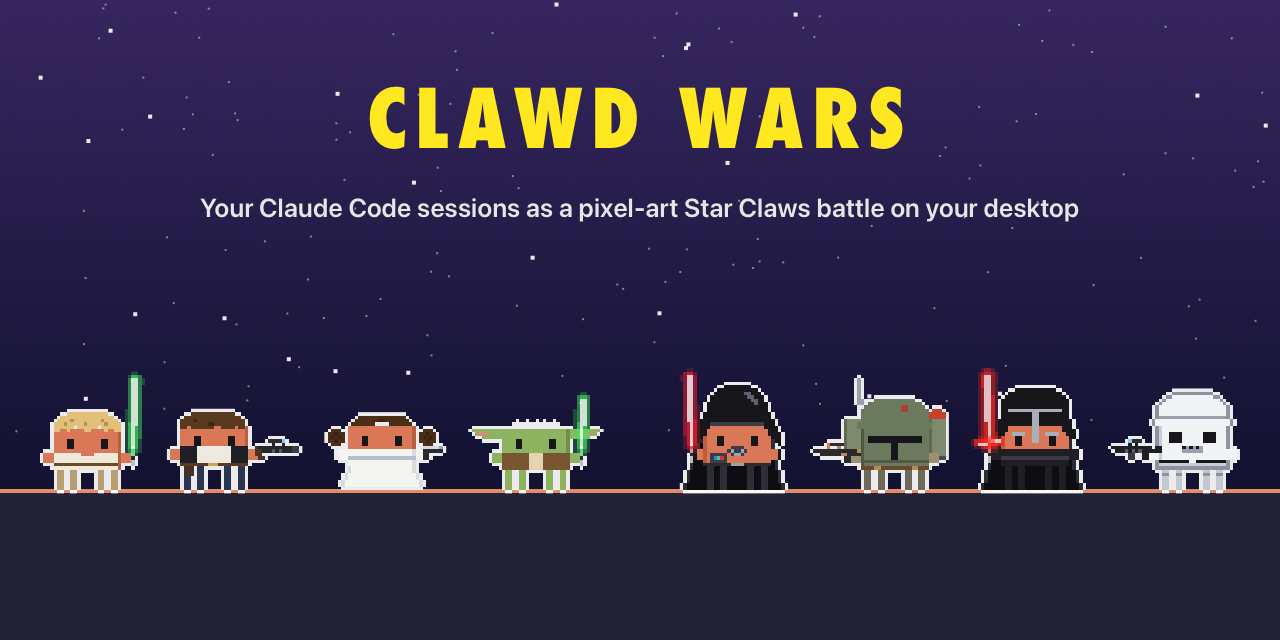
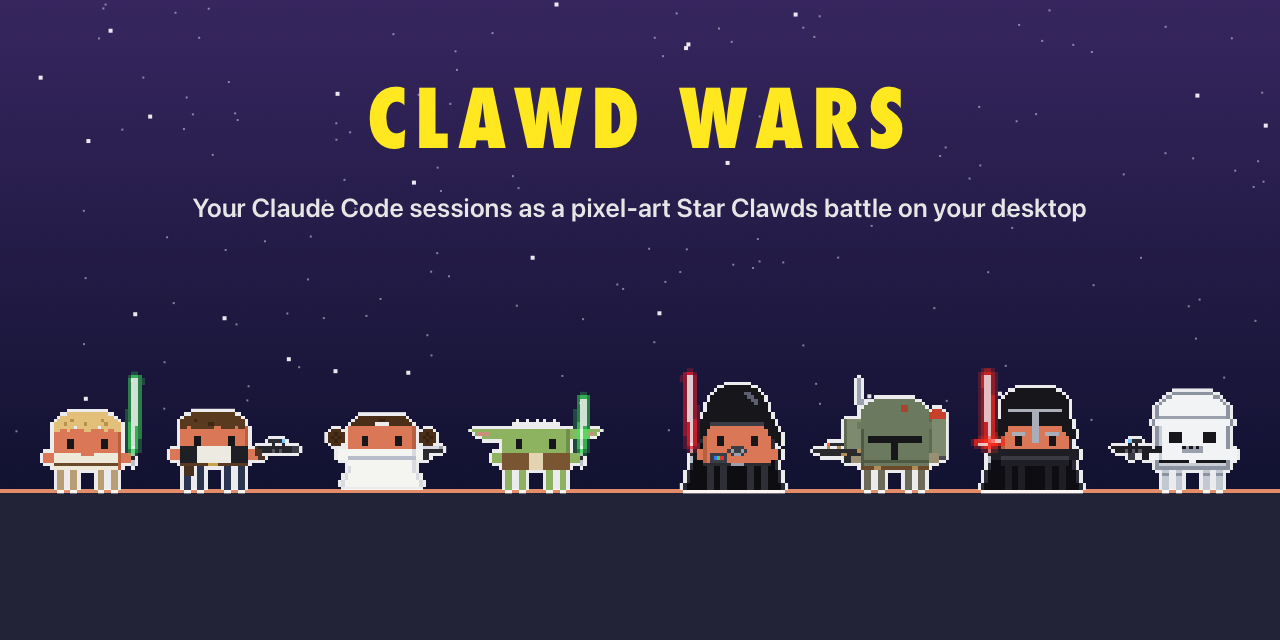
docs: Star Clawds, Marvelous Clawds and Detective Clawds
The universes and teams lean on Clawd now, not claw: Star Claws is Star
Clawds, and the pages link to the renamed Clawdvengers and Justice Clawds.
The place sheet and the social preview are re-rendered with the new name.

Changed region(s): [[0.1562, 0.3125, 0.8438, 0.3438]]

diff --git a/README.md b/README.md
@@ -5,7 +5,7 @@
 <h1 align="center">Clawd Wars</h1>
 
 <p align="center">
-  <b>Your AI coding sessions, as a pixel-art Star Claws battle on your desktop.</b><br>
+  <b>Your AI coding sessions, as a pixel-art Star Clawds battle on your desktop.</b><br>
   Every session is a hero or a villain, every subagent joins in, and they fight while they work.
 </p>
 
@@ -21,7 +21,7 @@ https://github.com/user-attachments/assets/84cbea65-6fb8-452a-b4d6-811c69c301cc
 
 <p align="center"><sub>🔊 <b>Click the speaker in the player for sound</b>: GitHub starts videos muted. Full 1080p version: <a href="promo/clawd-wars-promo.mp4">promo/clawd-wars-promo.mp4</a></sub></p>
 
-> **Clawd Wars is now part of [Clawd Clash](https://github.com/rodclemen/clawd-clash).** Same crew, same fights, now with two more universes to switch to. This page shows off the Star Claws universe; see [Get it](#get-it) to install.
+> **Clawd Wars is now part of [Clawd Clash](https://github.com/rodclemen/clawd-clash).** Same crew, same fights, now with two more universes to switch to. This page shows off the Star Clawds universe; see [Get it](#get-it) to install.
 
 <p align="center">
   <img src="docs/desktop.png" alt="Three Claudes and seven agents fighting across the bottom of the screen: Boba Feta, Obi-Juan Kanoobie and Darth Vapor leading">
@@ -32,7 +32,7 @@ https://github.com/user-attachments/assets/84cbea65-6fb8-452a-b4d6-811c69c301cc
 ## Contents
 
 - [What it is](#what-it-is)
-- [The Star Claws universe](#the-star-claws-universe)
+- [The Star Clawds universe](#the-star-claws-universe)
 - [The cast](#the-cast)
 - [Window mode](#window-mode)
 - [Screen saver](#screen-saver)
@@ -44,7 +44,7 @@ https://github.com/user-attachments/assets/84cbea65-6fb8-452a-b4d6-811c69c301cc
 
 You run Claude Code in three terminals. One is thinking, one is waiting for your permission, one finished ten minutes ago and you didn't notice. You alt-tab around to find out.
 
-**Clawd Wars tells you at a glance, without switching windows.** Every Claude Code, Codex, Qwen Code, Gemini CLI or GitHub Copilot CLI session becomes a character in a pixel-art Star Claws battle, along the bottom of your screen or in a window of its own.
+**Clawd Wars tells you at a glance, without switching windows.** Every Claude Code, Codex, Qwen Code, Gemini CLI or GitHub Copilot CLI session becomes a character in a pixel-art Star Clawds battle, along the bottom of your screen or in a window of its own.
 
 - 🗡 **Working?** Your Claude swings a laser sword (or fires a blaster, or throws dark lightning).
 - 💭 **Thinking?** A thought bubble.
@@ -56,7 +56,7 @@ You run Claude Code in three terminals. One is thinking, one is waiting for your
 
 No dashboard to open, no tab to check. It's just… there, quietly having a war.
 
-## The Star Claws universe
+## The Star Clawds universe
 
 Run two Claudes and they duel. Every character is Clawd (Claude Code's little pixel mascot) in costume, and the fights follow the weapons:
 
@@ -94,7 +94,7 @@ Two gunslingers never just shoot each other. Most bolts get saved:
 **The light side**: Luke Skyclawer, Han Yolo, Princess Laya, Obi-Juan Kanoobie, Ahh2-De2, C-3P-Uh-Oh, Qui-Gone Tonic, Mace Window, Yodle, a Clawa, Chewbarka, Ray, Asoka Tango, Wicker the Furwok, a Snowtaunt, J.J Blinks, Lando Coolrissian, Zori Blitz, Bo-Kitan Krays, Maz Kanapé, Wedge Antlers, LE-ET (fist up for bot rights), Mon Mothball, Padmé Amidrama, Admiral Snackbar, Grogoo, Babu Flick (sparks flying), the Mandoclawrian, Kay-2-Snark, Gonky the Power Box, Cassius Andoor (always glancing over his shoulder), Bix Caffeine, Cobb Vance, a Pit Bot (folds up now and then) and Kwill (*"I have spoken."*).
 
 <p align="center">
-  <img src="docs/roster.png" alt="The whole Star Claws cast, dark side and light side" width="760">
+  <img src="docs/roster.png" alt="The whole Star Clawds cast, dark side and light side" width="760">
 </p>
 
 ## Window mode
@@ -114,7 +114,7 @@ The scene is set **where the first session's character belongs**: the Doom Moon 
 22 hand-built places, each with its own little animation: the band plays in the Mos Easy Cantina while the bartender polishes glasses; Princess Laya's hologram flickers in Obi-Juan's Hut; Clawas' eyes glow over heaps of junk in the Clawa Sandcrawler; fog drifts over Dagobog; the Millennial Falcon jumps to hyperspace past its cockpit window; a Star Wrecker lies buried in the sand of Jakkuzzi; Furwok lanterns flicker on the Forest Moon of Ender; and Jabbo's court peers down into the Rancor Pit.
 
 <p align="center">
-  <img src="docs/locations.png" alt="All 22 Star Claws places" width="760">
+  <img src="docs/locations.png" alt="All 22 Star Clawds places" width="760">
 </p>
 
 ## Screen saver
@@ -135,7 +135,7 @@ The window can show the same view, and **Random** location moves the window some
 
 Clawd Wars is now part of **[Clawd Clash](https://github.com/rodclemen/clawd-clash)**, one app with three universes. It needs macOS 13+ and at least one of Claude Code, Codex, Qwen Code, Gemini CLI or GitHub Copilot CLI.
 
-**With Homebrew**, starting in Star Claws:
+**With Homebrew**, starting in Star Clawds:
 
 ```sh
 brew install --cask rodclemen/tap/clawd-wars
@@ -153,7 +153,7 @@ Everything else (how it works, the settings, uninstalling, the source and contri
 
 ## Two more universes
 
-Star Claws is one of three. In **Settings → Universe** you can switch to **Clawvel** or **Detective Claws**, or pick **Random** to change universe on its own every so often. Switching recasts everyone on screen and moves the scene to one of the new universe's places; a scene never mixes them. See [Clawd Clash](https://github.com/rodclemen/clawd-clash) for the other two casts.
+Star Clawds is one of three. In **Settings → Universe** you can switch to **Marvelous Clawds** or **Detective Clawds**, or pick **Random** to change universe on its own every so often. Switching recasts everyone on screen and moves the scene to one of the new universe's places; a scene never mixes them. See [Clawd Clash](https://github.com/rodclemen/clawd-clash) for the other two casts.
 
 ## What's new
 

diff --git a/CHANGELOG.md b/CHANGELOG.md
@@ -1,18 +1,18 @@
 # What's new in Clawd Wars
 
-The changes you'd notice in the Star Claws universe, newest first. The full, detailed history (every fix, every version) lives in [Clawd Clash](https://github.com/rodclemen/clawd-clash).
+The changes you'd notice in the Star Clawds universe, newest first. The full, detailed history (every fix, every version) lives in [Clawd Clash](https://github.com/rodclemen/clawd-clash).
 
 ## 3.0.0: Clawd Wars joins Clawd Clash
 
-- **One app, three universes.** Clawd Wars is now part of Clawd Clash. Star Claws keeps the whole cast (81 characters) and all 22 places, and you can switch to **Clawvel** or **Detective Claws** in Settings. Switching recasts everyone on screen and moves the scene to the new universe.
-- **Parody names.** The universe is now called **Star Claws**, and every character and place has a new name: Darth Vapor, Luke Skyclawer, Han Yolo, Princess Laya, the Millennial Falcon, the Mos Easy Cantina and the rest. The swords are laser swords now, and the lightning is dark lightning.
+- **One app, three universes.** Clawd Wars is now part of Clawd Clash. Star Clawds keeps the whole cast (81 characters) and all 22 places, and you can switch to **Marvelous Clawds** or **Detective Clawds** in Settings. Switching recasts everyone on screen and moves the scene to the new universe.
+- **Parody names.** The universe is now called **Star Clawds**, and every character and place has a new name: Darth Vapor, Luke Skyclawer, Han Yolo, Princess Laya, the Millennial Falcon, the Mos Easy Cantina and the rest. The swords are laser swords now, and the lightning is dark lightning.
 - **Random universe.** Pick **Random** and the app changes universe on its own every 1 to 60 minutes, with a wipe across the whole window.
 - **A Settings window.** Every option in one place (universe, window, desktop, connected AIs, screen saver), and a much shorter menu.
 - **The window steps aside** when no AI is running, and comes back when one starts.
 - **Keep Characters on Top** can be switched off, so the desktop crew lives behind your windows instead of over them.
-- **Everyone looks the same as before.** The Star Claws crew was carried over frame by frame, and Sebulbous now fires a flame jet and the Clawa a blue ion bolt instead of the usual red.
+- **Everyone looks the same as before.** The Star Clawds crew was carried over frame by frame, and Sebulbous now fires a flame jet and the Clawa a blue ion bolt instead of the usual red.
 - **The screen saver picks its own universe** in its Options, and a few screen saver glitches were fixed (it no longer disappears from System Settings' list).
-- **Upgrading takes care of itself.** Clawd Clash takes over the AIs the old app had connected, quits the old app and starts in Star Claws, keeping your sessions' characters.
+- **Upgrading takes care of itself.** Clawd Clash takes over the AIs the old app had connected, quits the old app and starts in Star Clawds, keeping your sessions' characters.
 - A new icon: a comic cover with one panel per universe.
 
 ## 2.26 to 2.28: the screen saver and a bigger cast
